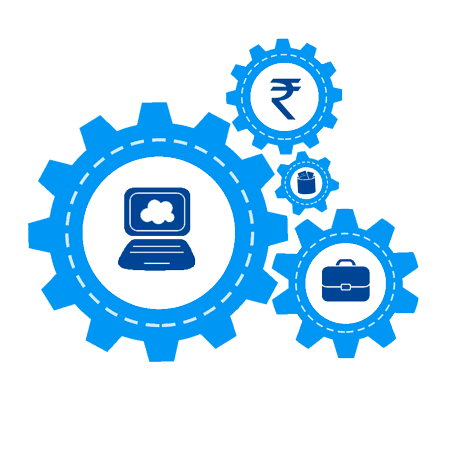
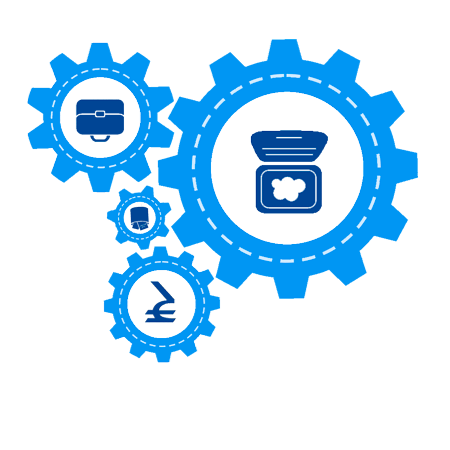
add other srvices info and blocks

diff --git a/source/index.html b/source/index.html
@@ -267,9 +267,9 @@
 
         <div class="services__item">
           <div class="services__text">
-            <h3 class="services__srvice-title">Usługi serwisowe</h3>
+            <h3 class="services__service-title">Usługi serwisowe</h3>
             <p class="services__service-desription">
-              Wspieramy istniejące systemy w szerokim zakresie:
+              <h4 class="services__service-subtitle">Wspieramy istniejące systemy w szerokim zakresie:</h4>
               •zdalne zarządzanie systemami, konfiguracja, monitorowanie itp.,
               •telefoniczne wsparcie dla użytkowników,
               •konsultacje dla administratorów i projektantów.
@@ -282,16 +282,49 @@
 
         <div class="services__item">
           <div class="services__text">
-            <h3 class="services__srvice-title">Usługi serwisowe</h3>
+            <h3 class="services__service-title">Projektowanie i wdrażanie systemów</h3>
             <p class="services__service-desription">
-              Wspieramy istniejące systemy w szerokim zakresie:
-              •zdalne zarządzanie systemami, konfiguracja, monitorowanie itp.,
-              •telefoniczne wsparcie dla użytkowników,
-              •konsultacje dla administratorów i projektantów.
+              Dedykowane rozwiązania
+              Od wielu lat specjalizujemy się w projektowaniu i wdrażaniu dedykowanych
+              rozwiązań dla biznesu. Korzystając z dużego doświadczenia i wielu
+              gotowych rozwiązań, możemyw krótkim czasie uruchomić rozwiązanie dostosowane
+              do Twoich potrzeb. Specjalizujemy się w dostarczaniu systemów wspierających
+              obieg dokumentów i spraw, CRM, B2B.
             </p>
           </div>
           <div class="services__img-wrap services__img-wrap--left">
             <img class="services__image" src="./images/services/services__foo-3.png" width="300" height="160" alt="service">
+          </div>
+        </div>
+
+        <div class="services__item">
+          <div class="services__text">
+            <h3 class="services__service-title">Integracja systemów</h3>
+            <p class="services__service-desription">
+              Integrujemy aplikacje Domino z systemami zintegrowanymi
+              (np. SAP R3, Axapta, Baan), bazami danych (np. Oracle, dB2, MS SQL, MySQL),
+              systemami komunikacji.
+            </p>
+          </div>
+          <div class="services__img-wrap services__img-wrap--right">
+            <img class="services__image" src="./images/services/services__foo-4.png" width="300" height="160" alt="service">
+          </div>
+        </div>
+
+        <div class="services__item">
+          <div class="services__text">
+            <h3 class="services__service-title">Inne usługi</h3>
+            <p class="services__service-desription">
+              Projektujemy, instalujemy, konfigurujemy systemy Domino:<br>
+
+              •planujemy i audytujemy polityki i ustawienia,
+              •rejestrujemy użytkowników,•przygotowujemy automatyczne instalacje,
+              •prowadzimy upgrady systemów,
+              •instalujemy klastry, partycje serwerów,•projektujemy infrastrukturę dla systemów Domino.
+            </p>
+          </div>
+          <div class="services__img-wrap services__img-wrap--left">
+            <img class="services__image" src="./images/services/services__foo-2.png" width="300" height="160" alt="service">
           </div>
         </div>
 

diff --git a/source/less/blocks/services.less b/source/less/blocks/services.less
@@ -41,7 +41,7 @@
   }
 }
 
-.services__srvice-title {
+.services__service-title {
   color: @standart-white;
   font-size: 28px;
 }
@@ -54,11 +54,9 @@
 .services__img-wrap {
   position: absolute;
   height: 100%;
-  // width: 320px;
   width: 1px;
   overflow: hidden;
   opacity: 0;
-
   filter: (grayscale(.4));
 
   &--right {
@@ -69,11 +67,11 @@
   &--left {
     transform: rotate(180deg);
     top: 0;
-    left: 0;
+    left: -20px;
   }
 
   &--active {
-    width: 320px;
+    width: 300px;
     opacity: 1;
     transition: opacity 0s, width 2s,;
   }
@@ -85,6 +83,9 @@
 }
 
 .services__image {
-  width: 320px;
+  width: 300px;
   height: 100%;
+  object-fit: contain;
 }
+
+
